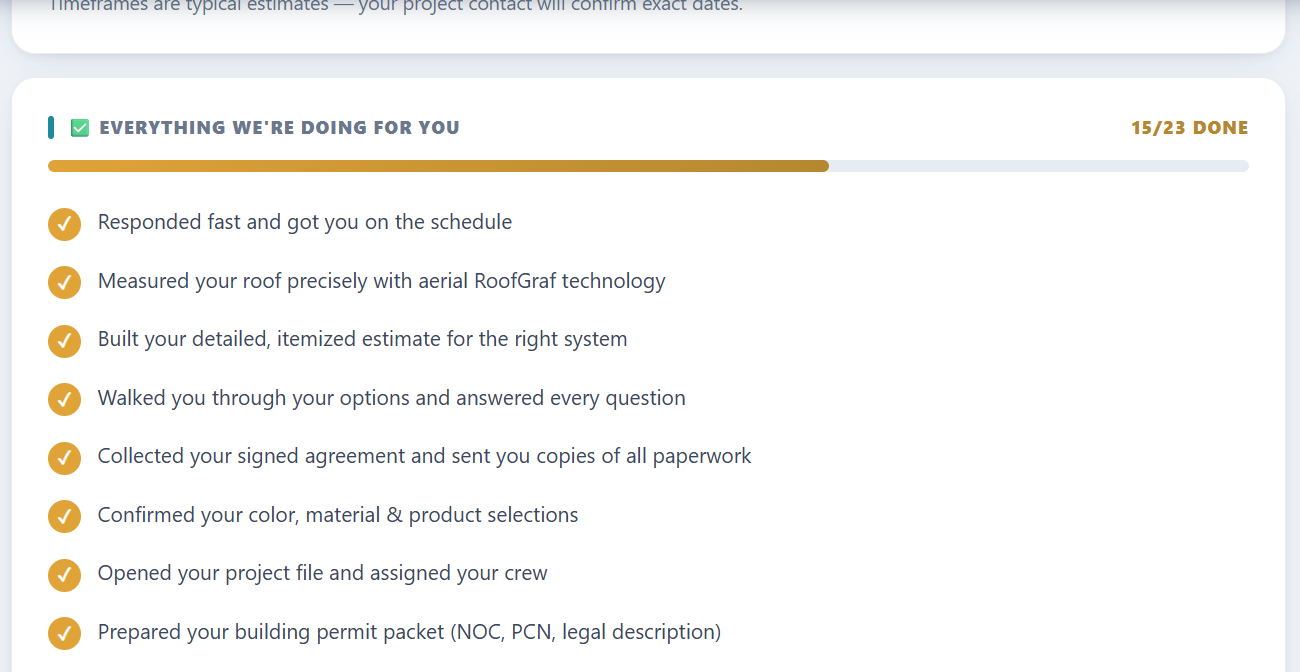
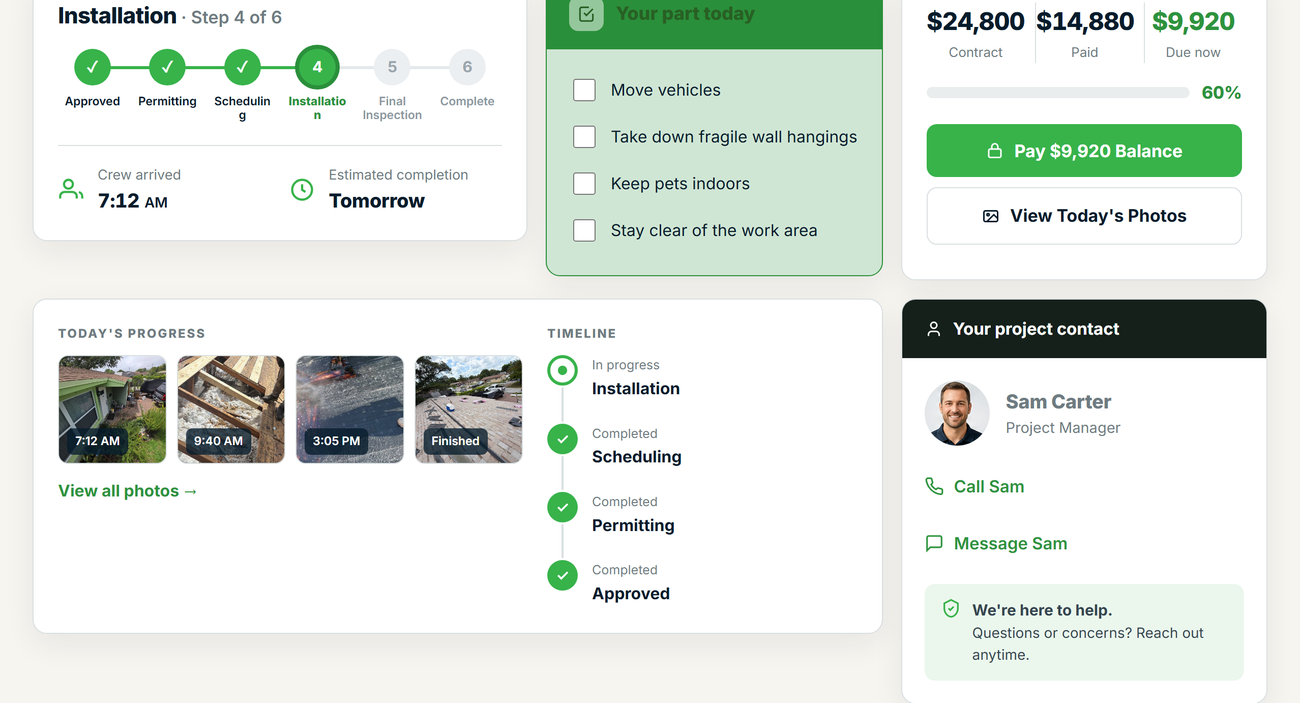
sales: refresh live-demo previews to match current KLR portal
Replace the 3 stale 'See the live product' screenshots (old teal/gold
theme, showing removed Invoices/HOA/SiteCam sections) with fresh
captures of the current KLR demo: live command center, add-on
marketplace, and the real-project gallery. Update alt text + dims.

diff --git a/templates/portal_sale_landing.html b/templates/portal_sale_landing.html
@@ -288,13 +288,13 @@ footer .wrap{display:flex;justify-content:space-between;gap:18px;flex-wrap:wrap}
     </div>
     <div class="grid" style="grid-template-columns:repeat(auto-fit,minmax(min(300px,100%),1fr))">
       <figure style="margin:0">
-        <img src="{{ url_for('static', filename='portal_sale/portal-checklist.png') }}" alt="Proof-of-work checklist showing 15 of 23 tasks completed" width="1300" height="672" loading="lazy" style="border:1px solid var(--line);border-radius:var(--r-md)">
+        <img src="{{ url_for('static', filename='portal_sale/portal-checklist.png') }}" alt="Live project command center — progress tracker, homeowner to-do list, balance due, and project contact" width="1300" height="703" loading="lazy" style="border:1px solid var(--line);border-radius:var(--r-md)">
       </figure>
       <figure style="margin:0">
-        <img src="{{ url_for('static', filename='portal_sale/portal-payments.png') }}" alt="Invoices and payments with QuickBooks sync and e-signature documents" width="1300" height="672" loading="lazy" style="border:1px solid var(--line);border-radius:var(--r-md)">
+        <img src="{{ url_for('static', filename='portal_sale/portal-payments.png') }}" alt="Add-on marketplace — gutters, maintenance plans, inspections, and roof upgrades added in a tap" width="1300" height="703" loading="lazy" style="border:1px solid var(--line);border-radius:var(--r-md)">
       </figure>
       <figure style="margin:0">
-        <img src="{{ url_for('static', filename='portal_sale/portal-photos.png') }}" alt="Live job photos posted from the field" width="1300" height="672" loading="lazy" style="border:1px solid var(--line);border-radius:var(--r-md)">
+        <img src="{{ url_for('static', filename='portal_sale/portal-photos.jpg') }}" alt="Recent projects gallery — real finished roofs across shingle, tile, and metal" width="1300" height="703" loading="lazy" style="border:1px solid var(--line);border-radius:var(--r-md)">
       </figure>
     </div>
     <p style="text-align:center;margin-top:34px">
